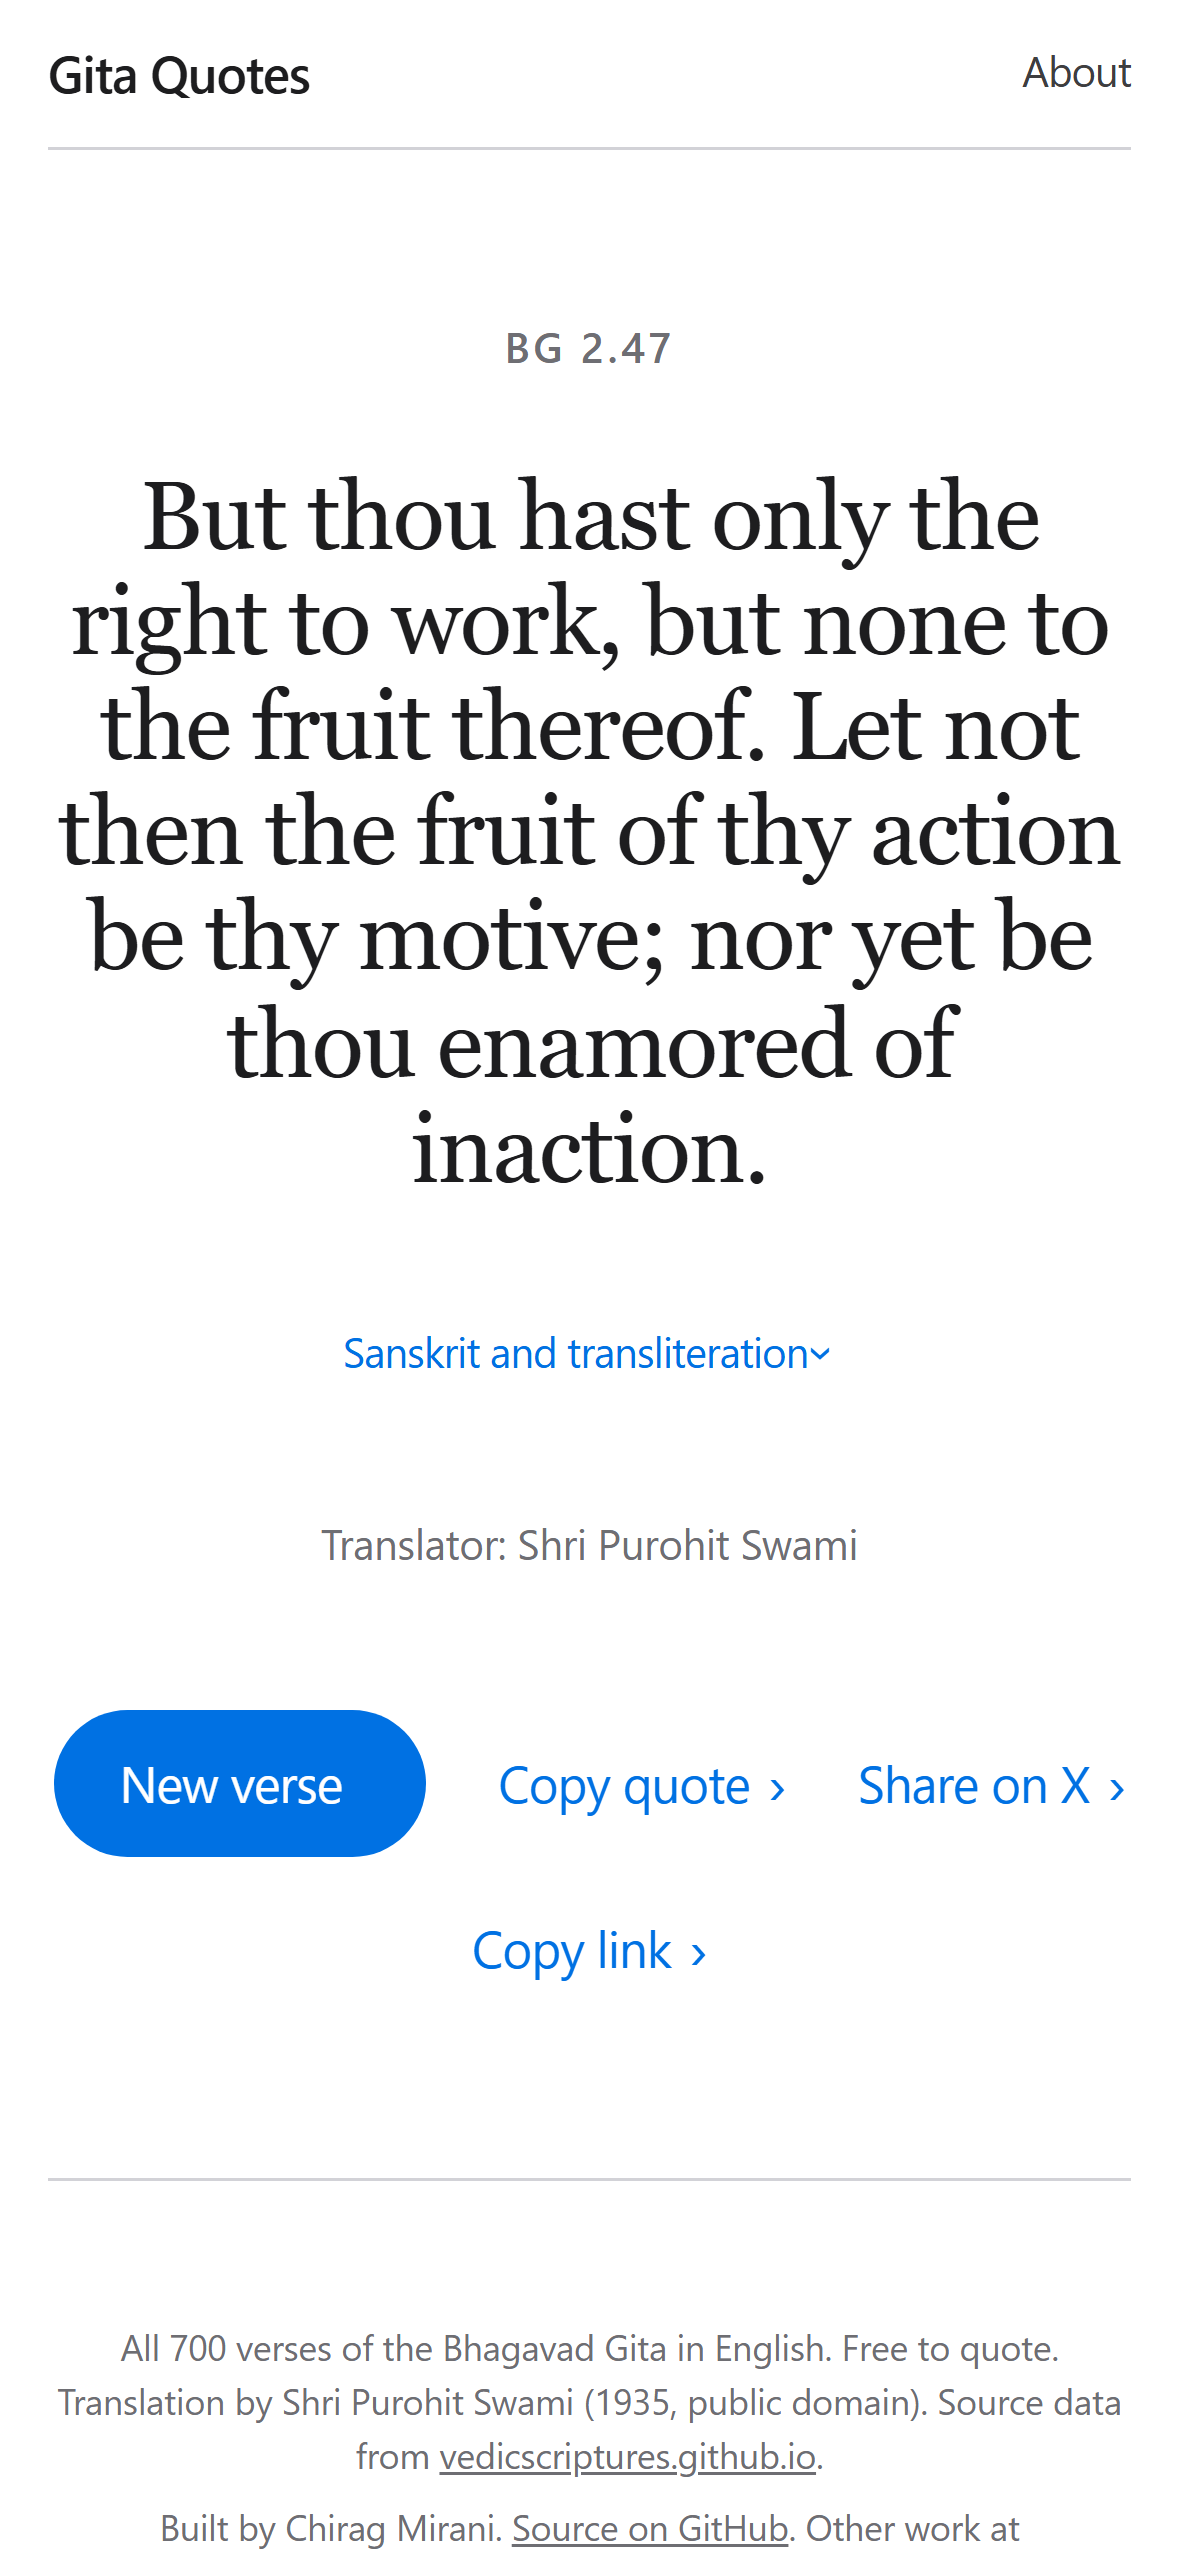
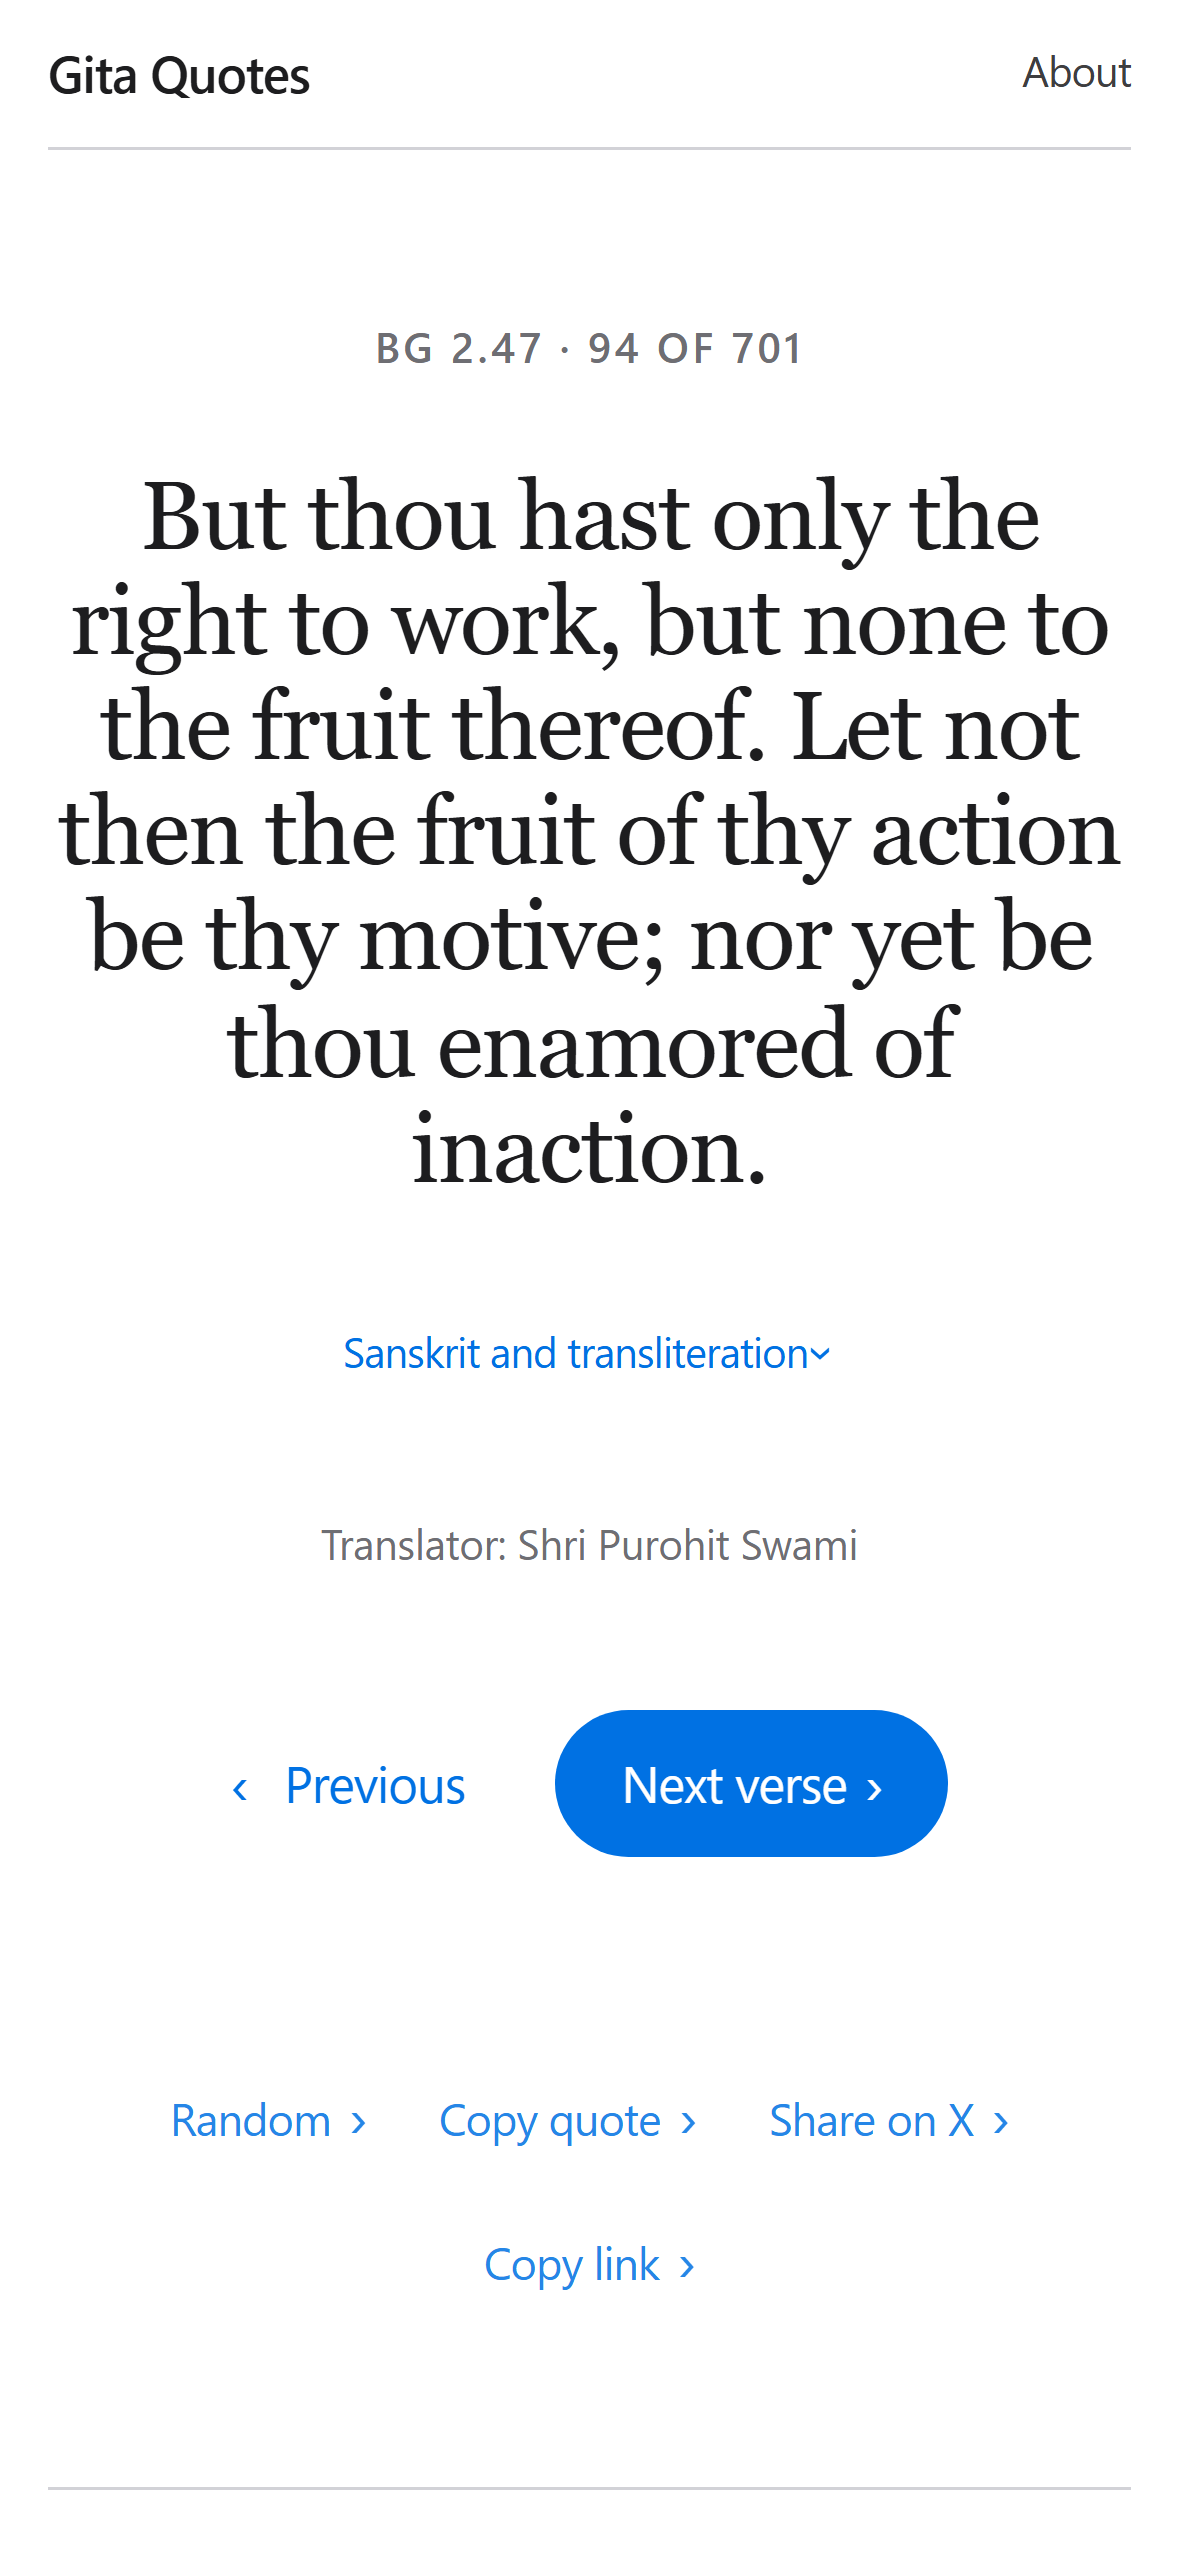
Sequential navigation by default, with localStorage resume and keyboard arrows

diff --git a/docs/index.html b/docs/index.html
@@ -85,7 +85,11 @@
       </section>
 
       <div class="actions">
-        <button type="button" class="btn primary" id="next">New verse</button>
+        <button type="button" class="btn back" id="prev">Previous</button>
+        <button type="button" class="btn primary" id="next">Next verse</button>
+      </div>
+      <div class="actions secondary-actions">
+        <button type="button" class="btn" id="random">Random</button>
         <button type="button" class="btn" id="copy">Copy quote</button>
         <a class="btn" id="tweet" target="_blank" rel="noopener">Share on X</a>
         <button type="button" class="btn" id="link">Copy link</button>
@@ -99,15 +103,18 @@
 
     <script>
       const SITE = "https://chiragmirani.github.io/gita-quotes/";
+      const STORAGE_KEY = "gita.lastVerseId";
       let verses = [];
-      let current = null;
+      let currentIndex = 0;
 
       const elRef = document.getElementById("ref");
       const elQuote = document.getElementById("quote");
       const elSanskrit = document.getElementById("sanskrit");
       const elTranslit = document.getElementById("translit");
       const elCred = document.getElementById("cred");
+      const btnPrev = document.getElementById("prev");
       const btnNext = document.getElementById("next");
+      const btnRandom = document.getElementById("random");
       const btnCopy = document.getElementById("copy");
       const btnLink = document.getElementById("link");
       const aTweet = document.getElementById("tweet");
@@ -119,11 +126,13 @@
         return text.replace(re, "").trim();
       }
 
-      function show(v) {
-        current = v;
+      function show(index) {
+        if (!verses.length) return;
+        currentIndex = ((index % verses.length) + verses.length) % verses.length;
+        const v = verses[currentIndex];
         const ref = "BG " + v.chapter + "." + v.verse;
         const clean = stripPrefix(v.english, v.id);
-        elRef.textContent = ref;
+        elRef.textContent = ref + "  ·  " + (currentIndex + 1) + " of " + verses.length;
         elQuote.textContent = clean;
         elSanskrit.textContent = v.sanskrit || "";
         elTranslit.textContent = v.transliteration || "";
@@ -133,15 +142,11 @@
         aTweet.href = "https://twitter.com/intent/tweet?text=" + encodeURIComponent(tweetText) + "&url=" + encodeURIComponent(url);
         history.replaceState(null, "", "?v=" + encodeURIComponent(v.id));
         document.title = "BG " + v.chapter + "." + v.verse + " | Bhagavad Gita Quotes";
+        try { localStorage.setItem(STORAGE_KEY, v.id); } catch (e) {}
       }
 
-      function pickRandom() {
-        if (!verses.length) return null;
-        return verses[Math.floor(Math.random() * verses.length)];
-      }
-
-      function findById(id) {
-        return verses.find(v => v.id === id);
+      function findIndexById(id) {
+        return verses.findIndex(v => v.id === id);
       }
 
       function flashButton(btn, label) {
@@ -150,16 +155,25 @@
         setTimeout(() => { btn.textContent = orig; }, 1400);
       }
 
-      btnNext.addEventListener("click", () => show(pickRandom()));
+      btnNext.addEventListener("click", () => show(currentIndex + 1));
+      btnPrev.addEventListener("click", () => show(currentIndex - 1));
+      btnRandom.addEventListener("click", () => show(Math.floor(Math.random() * verses.length)));
       btnCopy.addEventListener("click", () => {
-        if (!current) return;
-        const text = "\"" + stripPrefix(current.english, current.id) + "\" — Bhagavad Gita " + current.chapter + "." + current.verse;
+        const v = verses[currentIndex];
+        const text = "\"" + stripPrefix(v.english, v.id) + "\" — Bhagavad Gita " + v.chapter + "." + v.verse;
         navigator.clipboard.writeText(text).then(() => flashButton(btnCopy, "Copied"));
       });
       btnLink.addEventListener("click", () => {
-        if (!current) return;
-        const url = SITE + "?v=" + encodeURIComponent(current.id);
+        const v = verses[currentIndex];
+        const url = SITE + "?v=" + encodeURIComponent(v.id);
         navigator.clipboard.writeText(url).then(() => flashButton(btnLink, "Copied"));
+      });
+
+      // Keyboard navigation: arrow keys to advance through the dialogue.
+      document.addEventListener("keydown", (e) => {
+        if (e.target.tagName === "INPUT" || e.target.tagName === "TEXTAREA") return;
+        if (e.key === "ArrowRight" || e.key === " ") { e.preventDefault(); show(currentIndex + 1); }
+        if (e.key === "ArrowLeft") { e.preventDefault(); show(currentIndex - 1); }
       });
 
       fetch("data.json")
@@ -167,8 +181,19 @@
         .then(data => {
           verses = data.verses;
           const params = new URLSearchParams(window.location.search);
-          const want = params.get("v");
-          show((want && findById(want)) || pickRandom());
+          const wantUrl = params.get("v");
+          let saved = null;
+          try { saved = localStorage.getItem(STORAGE_KEY); } catch (e) {}
+          // Priority: URL deep link, then saved position, then BG 1.1.
+          let idx = 0;
+          if (wantUrl) {
+            const i = findIndexById(wantUrl);
+            if (i >= 0) idx = i;
+          } else if (saved) {
+            const i = findIndexById(saved);
+            if (i >= 0) idx = i;
+          }
+          show(idx);
         })
         .catch(err => {
           elQuote.textContent = "Could not load verses: " + err;

diff --git a/docs/static/styles.css b/docs/static/styles.css
@@ -156,7 +156,7 @@ a:hover { color: var(--accent-hover); text-decoration: underline; }
   align-items: center;
   flex-wrap: wrap;
   gap: 12px 28px;
-  padding: 16px 0 80px;
+  padding: 16px 0 12px;
 }
 .btn {
   font: inherit;
@@ -191,7 +191,27 @@ a:hover { color: var(--accent-hover); text-decoration: underline; }
   font-weight: 400;
 }
 .btn.primary:hover { background: var(--accent-hover); color: #fff; }
-.btn.primary::after { content: ""; }
+
+.btn.back::after { content: ""; }
+.btn.back::before {
+  content: "‹";
+  display: inline-block;
+  font-size: 20px;
+  line-height: 0.5;
+  transform: translateY(-1px);
+  margin-right: 6px;
+  transition: transform 0.2s ease;
+}
+.btn.back:hover::before { transform: translate(-2px, -1px); }
+
+.secondary-actions {
+  padding-top: 0;
+  padding-bottom: 64px;
+  font-size: 15px;
+  gap: 10px 22px;
+}
+.secondary-actions .btn { font-size: 15px; opacity: 0.85; }
+.secondary-actions .btn:hover { opacity: 1; }
 
 /* ---------- Footer ---------- */
 .foot {
